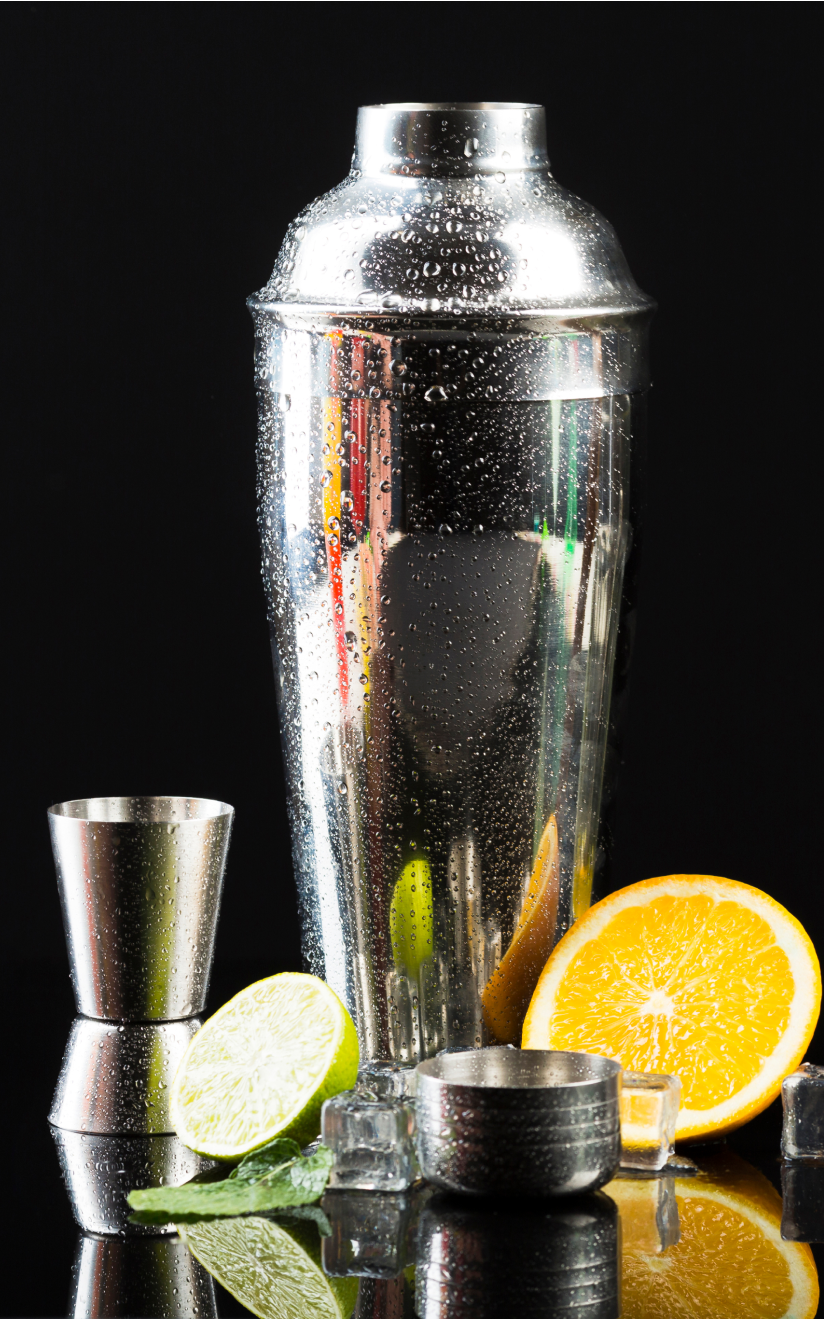
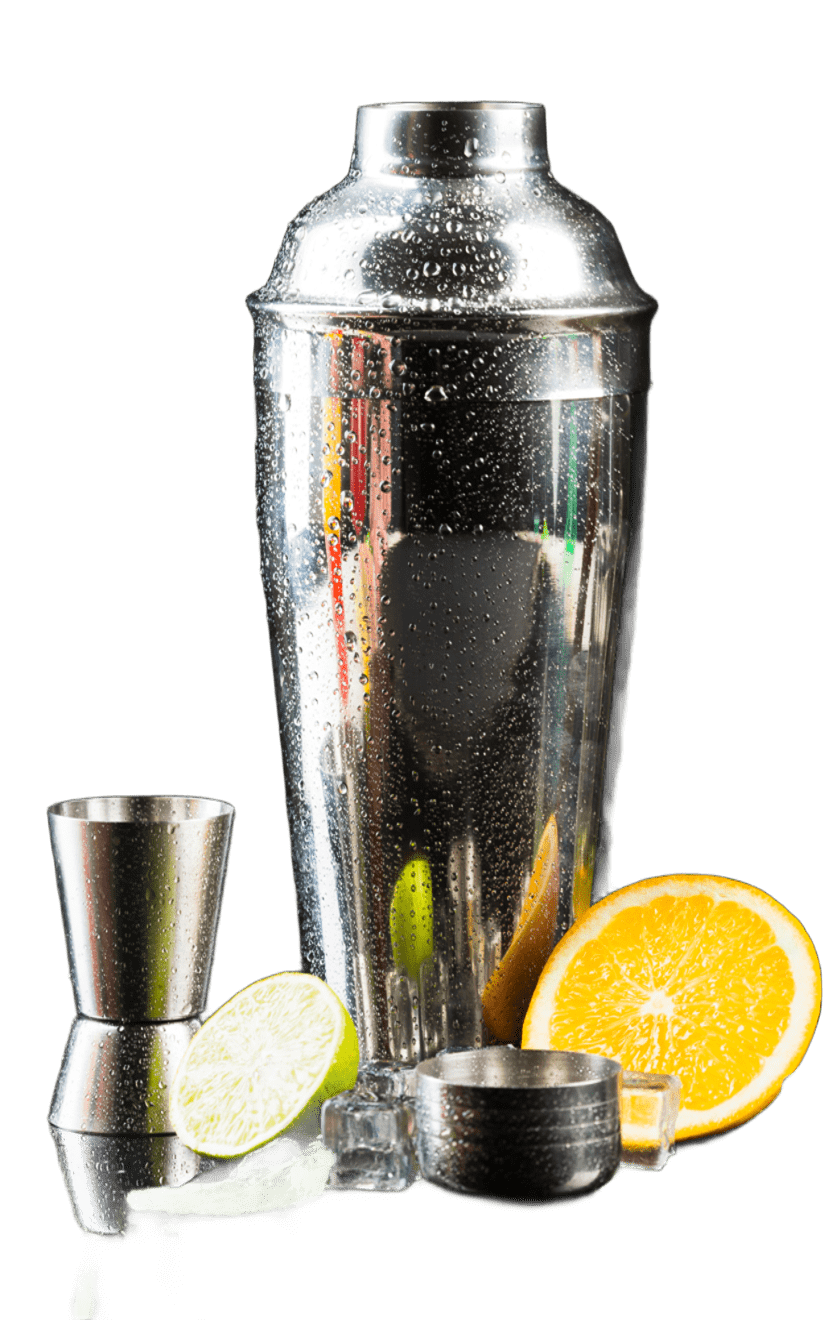
specialmenu css finished

diff --git a/src/container/Menu/SpecialMenu.css b/src/container/Menu/SpecialMenu.css
@@ -17,3 +17,60 @@
   align-items: flex-start;
   flex-direction: row;
 }
+
+.app__specialMenu-menu_heading {
+  font-family: var(--font-base);
+  font-weight: 600;
+  font-size: 45px;
+  line-height: 58px;
+  letter-spacing: 0.04em;
+  color: var(--color-white);
+}
+
+.app__specialMenu-menu_wine,
+.app__specialMenu-menu_cocktails {
+  flex: 1;
+  width: 100%;
+  display: flex;
+  flex-direction: column;
+}
+
+.app__specialMenu-menu_img {
+  width: 410px;
+  margin: 0 2rem;
+}
+
+.app__specialMenu-menu_img img {
+  width: 100%;
+  height: auto;
+}
+
+.app__specialMenu_menu_items {
+  display: flex;
+  flex-direction: column;
+  margin: 2rem 0;
+  width: 100%;
+}
+
+@media screen and (max-width: 1150px) {
+  .app__specialMenu-menu {
+    flex-direction: column;
+    align-items: center;
+    width: 100%;
+  }
+
+  .app__specialMenu-menu_img {
+    margin: 3rem 0;
+  }
+}
+
+@media screen and (max-width: 650px) {
+  .app__specialMenu-menu_img {
+    width: 100%;
+  }
+
+  .app__specialMenu-menu_heading {
+    font-size: 35px;
+    line-height: 48px;
+  }
+}

diff --git a/src/container/Menu/SpecialMenu.jsx b/src/container/Menu/SpecialMenu.jsx
@@ -11,7 +11,7 @@ const SpecialMenu = () => (
 
     <div className="app__specialMenu-menu">
       <div className="app__specialMenu-menu_wine flex__center">
-        <p className="app__specialMenu_menu_heading">Wine & Beer</p>
+        <p className="app__specialMenu-menu_heading">Wine & Beer</p>
         <div className="app__specialMenu_menu_items">
           {data.wines.map((wine) => (
             <MenuItem key={wine.id} {...wine} />
@@ -24,7 +24,7 @@ const SpecialMenu = () => (
       </div>
 
       <div className="app__specialMenu-menu_cocktails flex__center">
-        <p className="app__specialMenu_menu_heading">Cocktail</p>
+        <p className="app__specialMenu-menu_heading">Cocktail</p>
         <div className="app__specialMenu_menu_items">
           {data.cocktails.map((cocktail) => (
             <MenuItem key={cocktail.id} {...cocktail} />